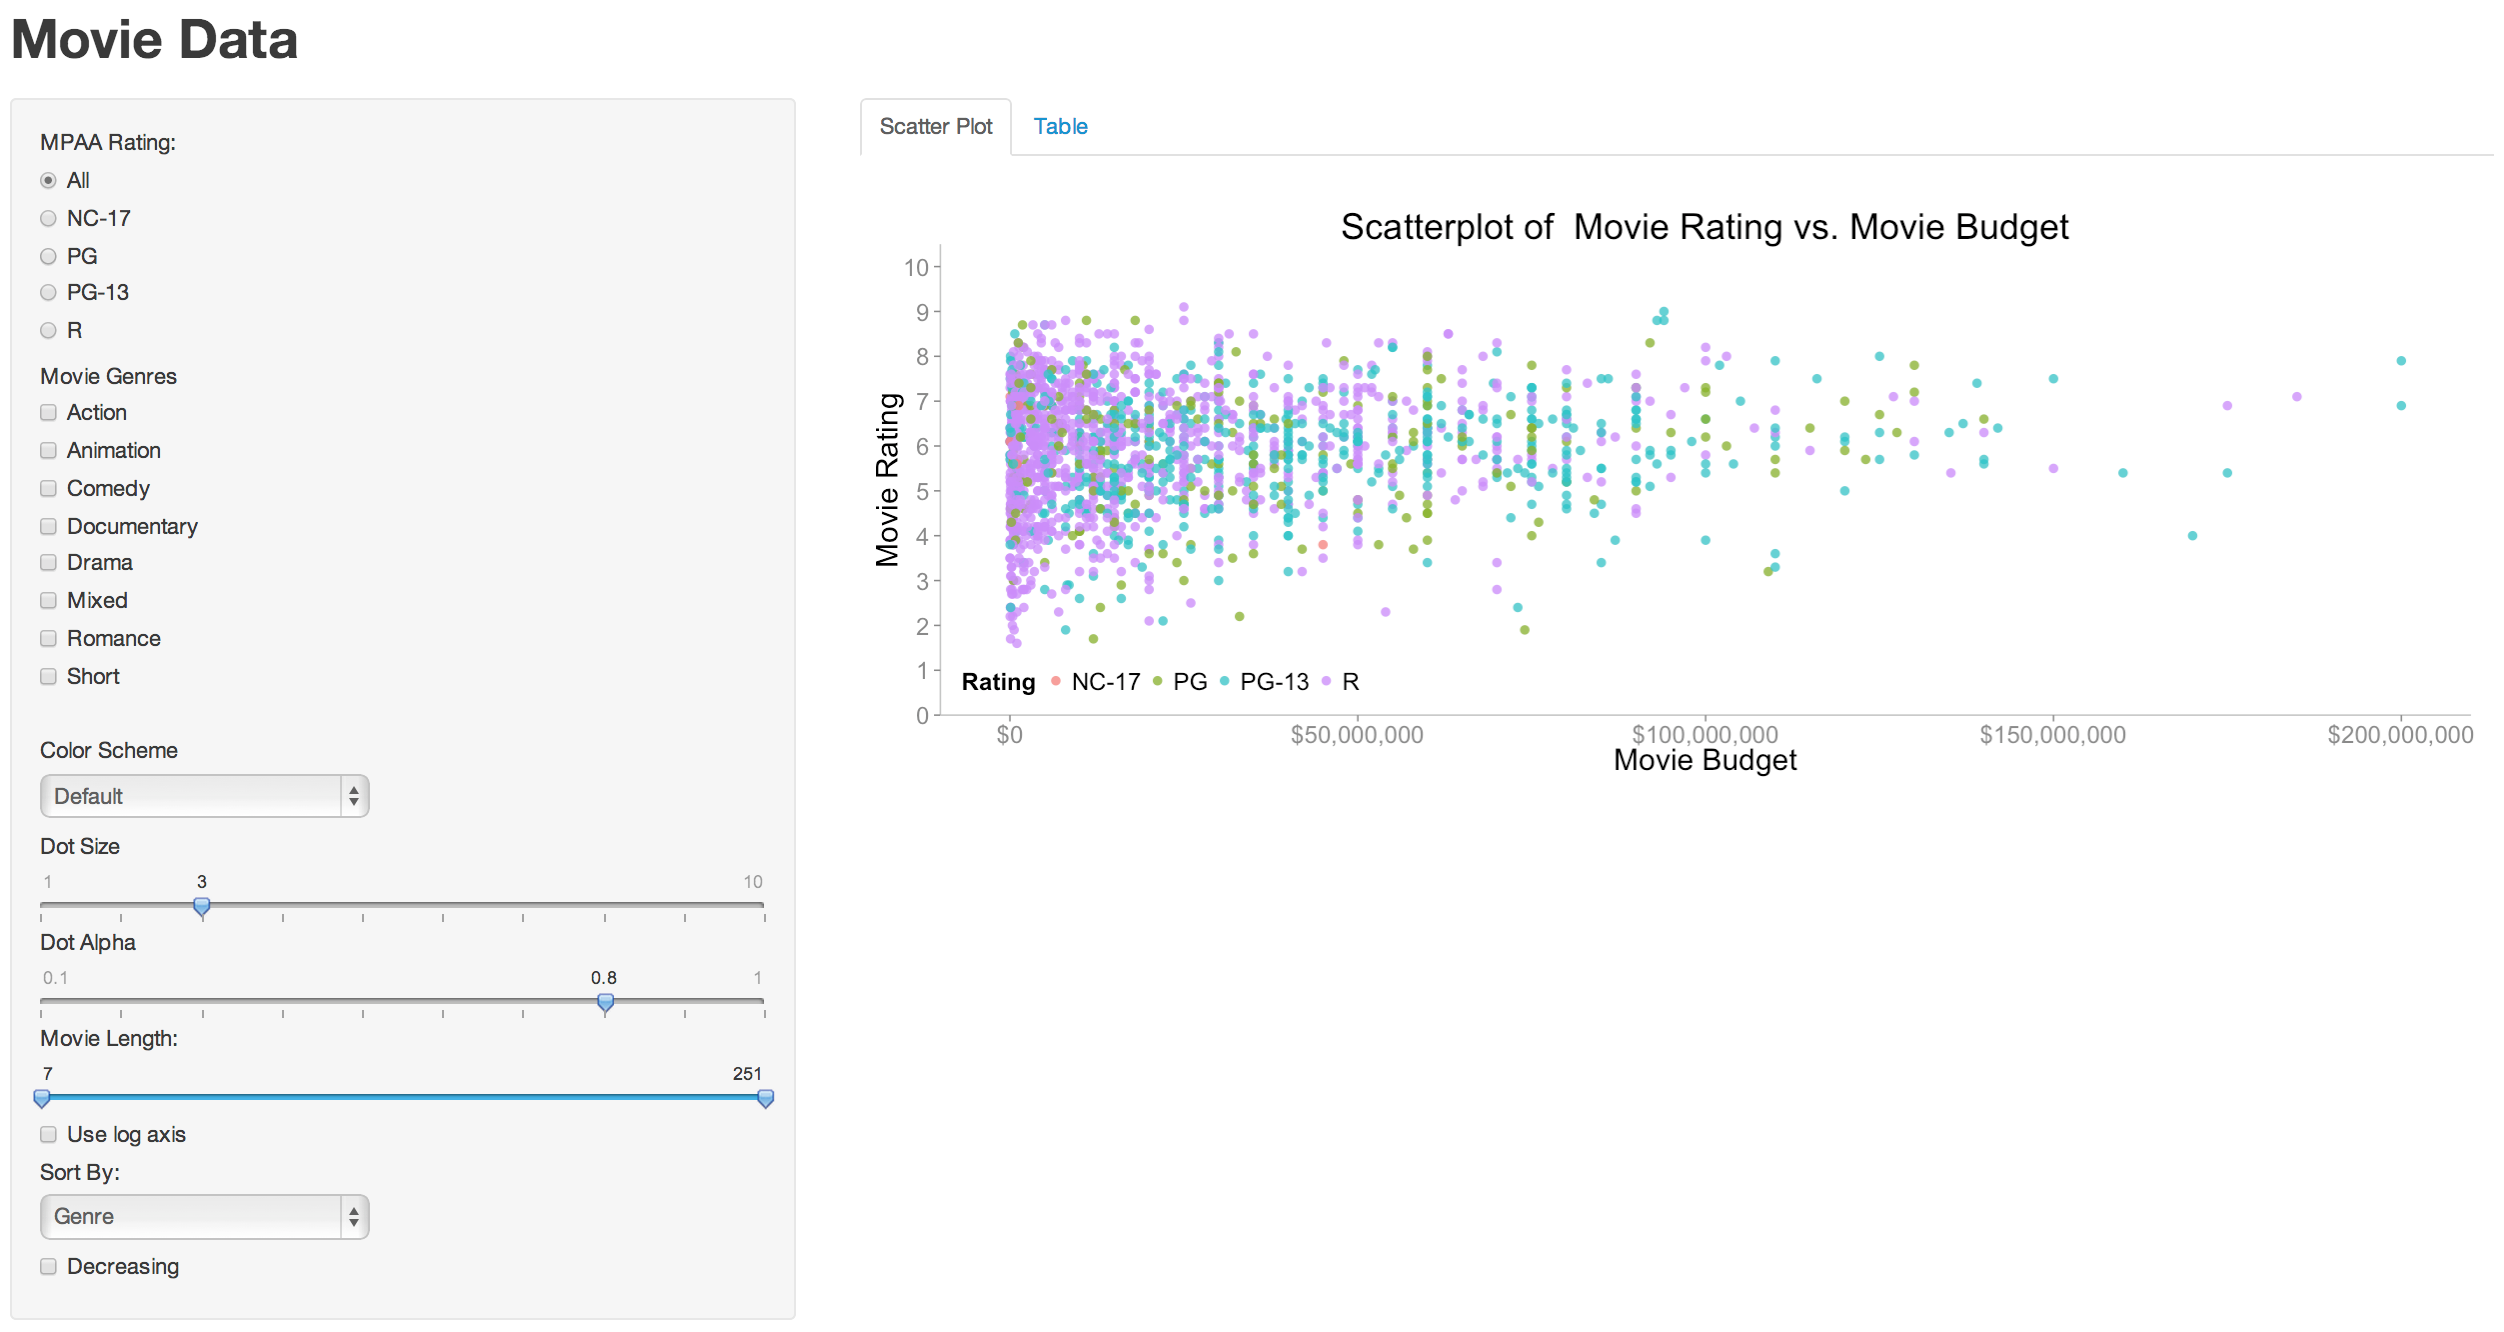
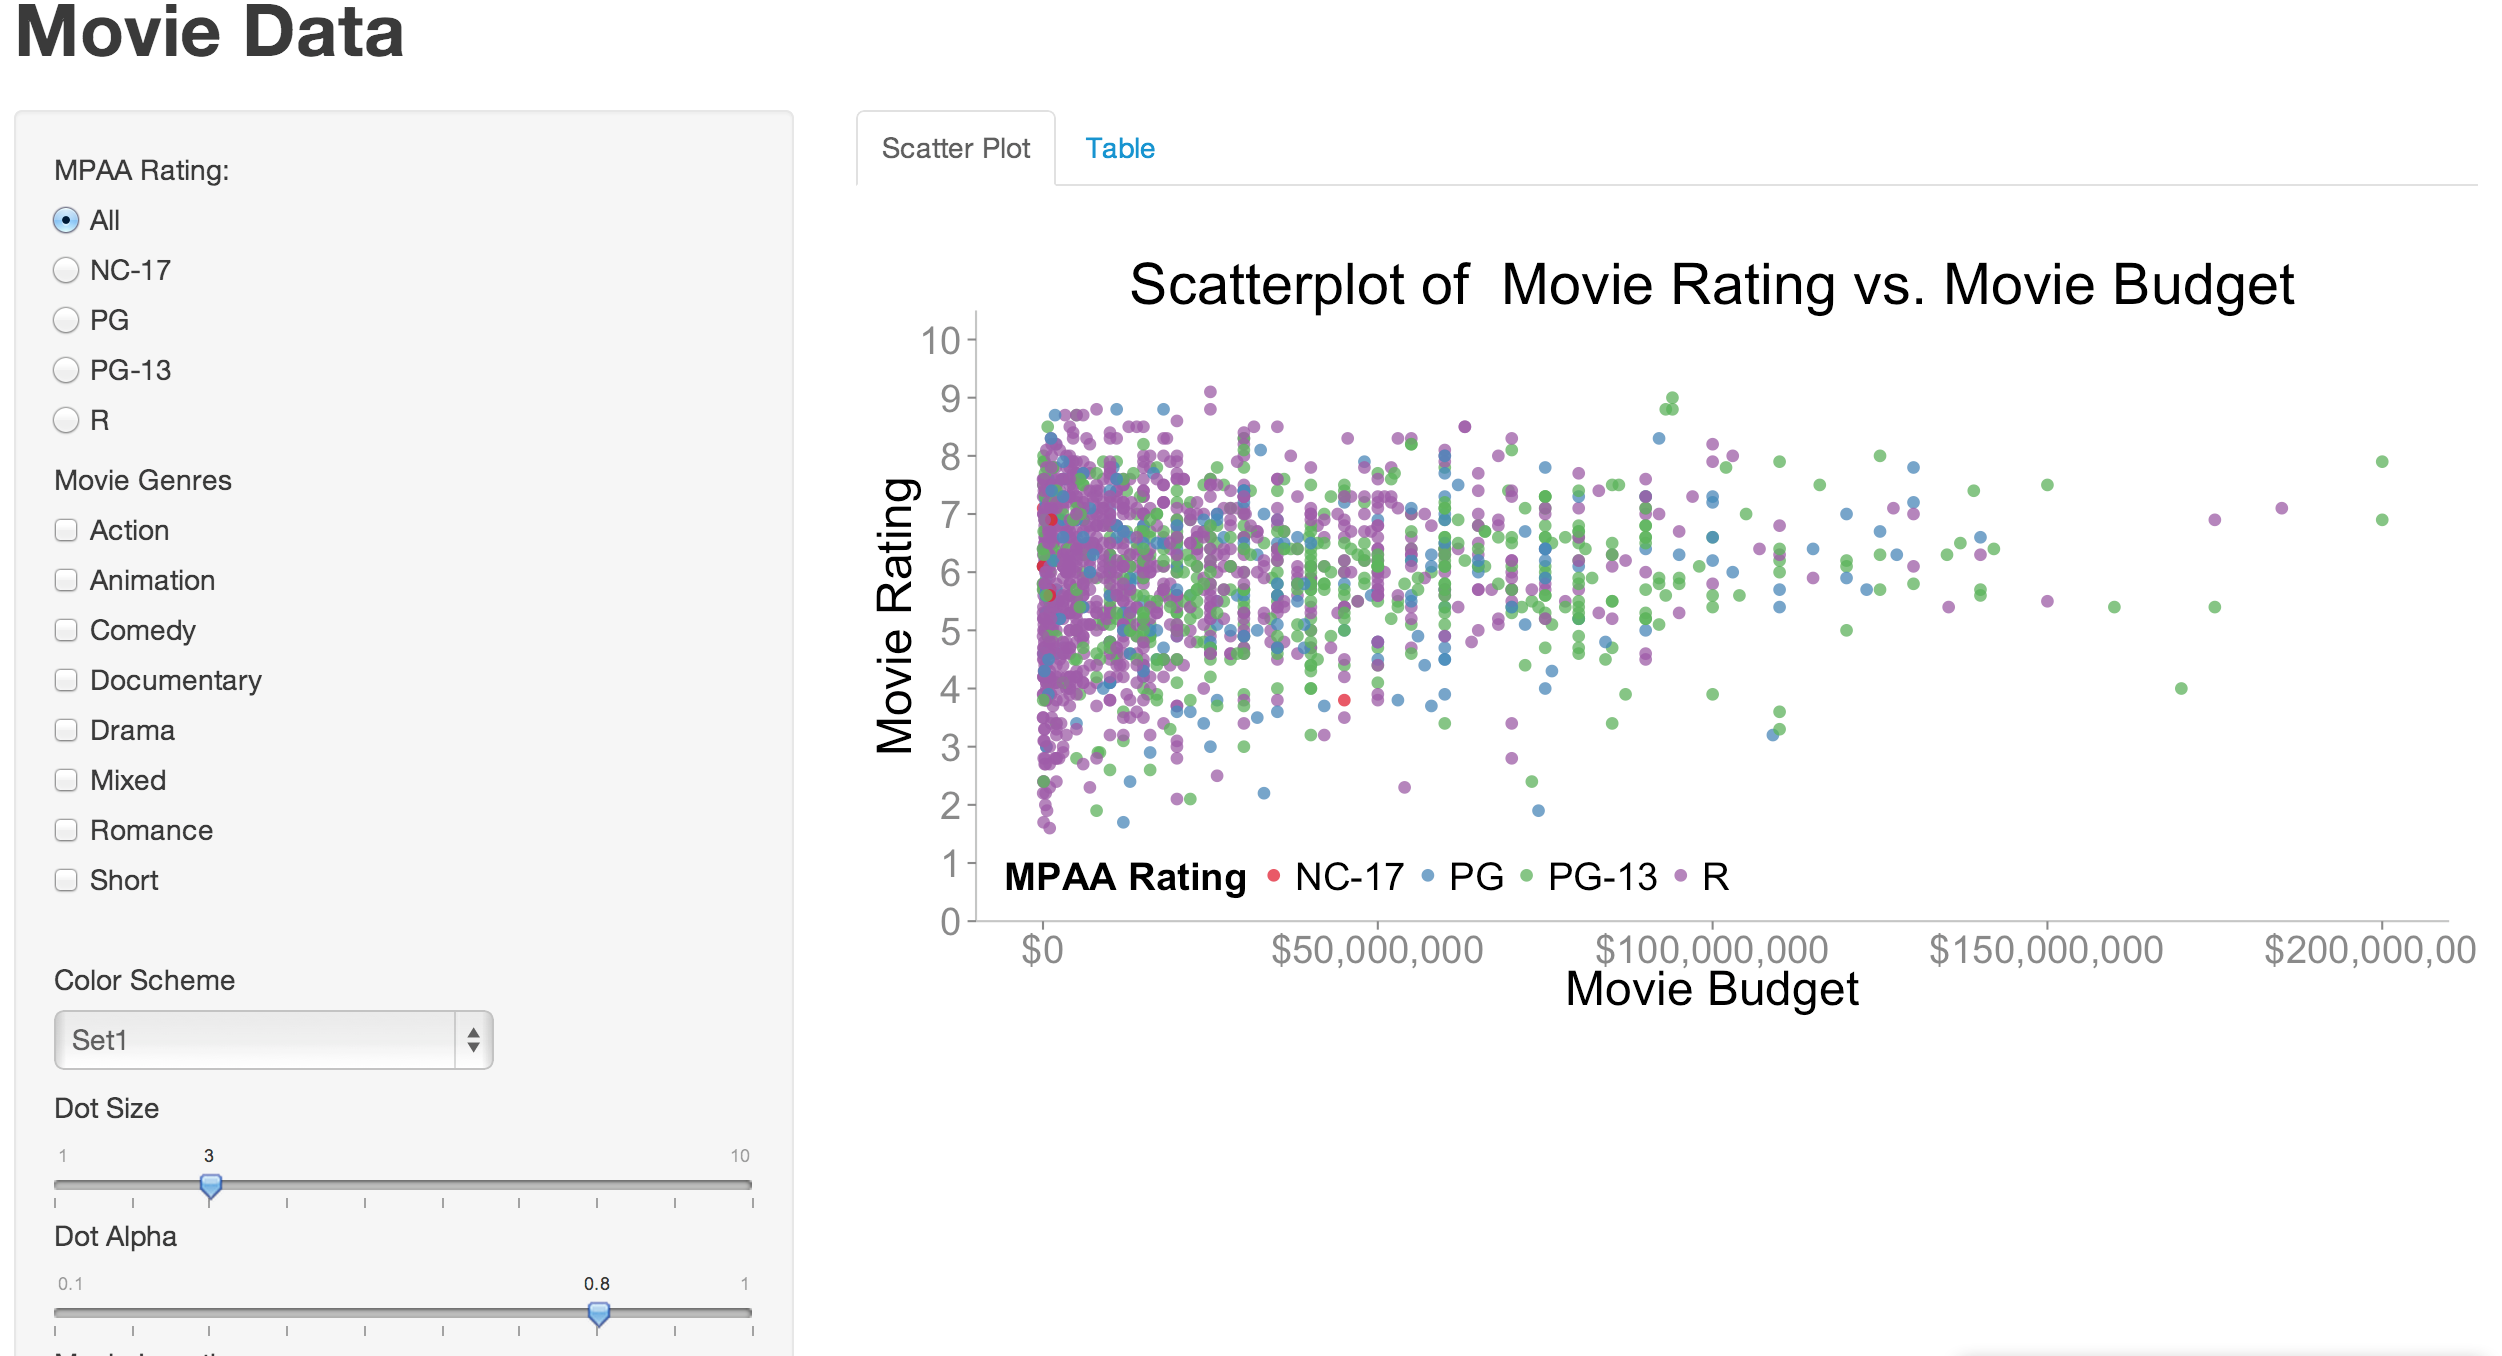
updated plot… got colors working correctly and added md file

diff --git a/homework2/README.md b/homework2/README.md
@@ -1,9 +1,9 @@
 Homework 2: Interactivity
 ==============================
 
-| **Name**  | [YOUR NAME]  |
+| **Name**  | Conor O'Sullivan  |
 |----------:|:-------------|
-| **Email** | [USERNAME]@dons.usfca.edu |
+| **Email** | ccosullivan@dons.usfca.edu |
 
 ## Instructions ##
 
@@ -11,16 +11,27 @@ The following packages must be installed prior to running this code:
 
 - `ggplot2`
 - `shiny`
+- `scales`
 
 To run this code, please enter the following commands in R:
 
 ```
 library(shiny)
-shiny::runGitHub('msan622', '[USERNAME]', 'homework2')
+shiny::runGitHub('msan622', 'conorosullivan', subdir='homework2')
 ```
 
 This will start the `shiny` app. See below for details on how to interact with the visualization.
 
 ## Discussion ##
 
-[DISCUSSION: Include a discussion here if required by the assignment.]
+![IMAGE](shinyapp.png)
+
+This interactive shiny application visualizes data for 1800 movies taken from the "movies" dataset in R's ggplot2 package. The focus of the app is the scatterplot, which has budget on the y axis and rating on the x axis. The next tab is a table of the data being used to populate the plot.
+
+The data can be subsetted by the checkboxes and radio buttons on the left panel. When any of these selections change, a reactive function in the shinyServer called changeFrame runs and re-subsets the data based on these selections.
+
+Some plotting features are available: dot size, color scheme, dot alpha, use log axis. These selections are run through the getPlot function using their input values. I chose to include use log axis since many of the films were made on budgets between $1M and $100M. Using the normal axis devotes half of the plot to movies costing between $100M and $200M.
+
+The points are colored by their MPAA rating. Making sure the colors stayed the same regardless of which points selected was initially quite a challenge. One solution that partially worked was saving the color palette for each of the color theme choices, then extracting only the colors of the currently selected ratings. This however was overly complicated compared the code I published here. The limits= feature inside "scale_color_brewer" keeps the colors consistent regardless of what is displayed. If no data is available for the current selections, say NC-17 animated movies, a message is displayed saying so. This was achieved by an initial check on the length of the data.frame to be plotted.
+
+The table updates with the subset selections, just like the plot. I also included the sort variable as an option as well as an option to have it in decreasing order or not.
